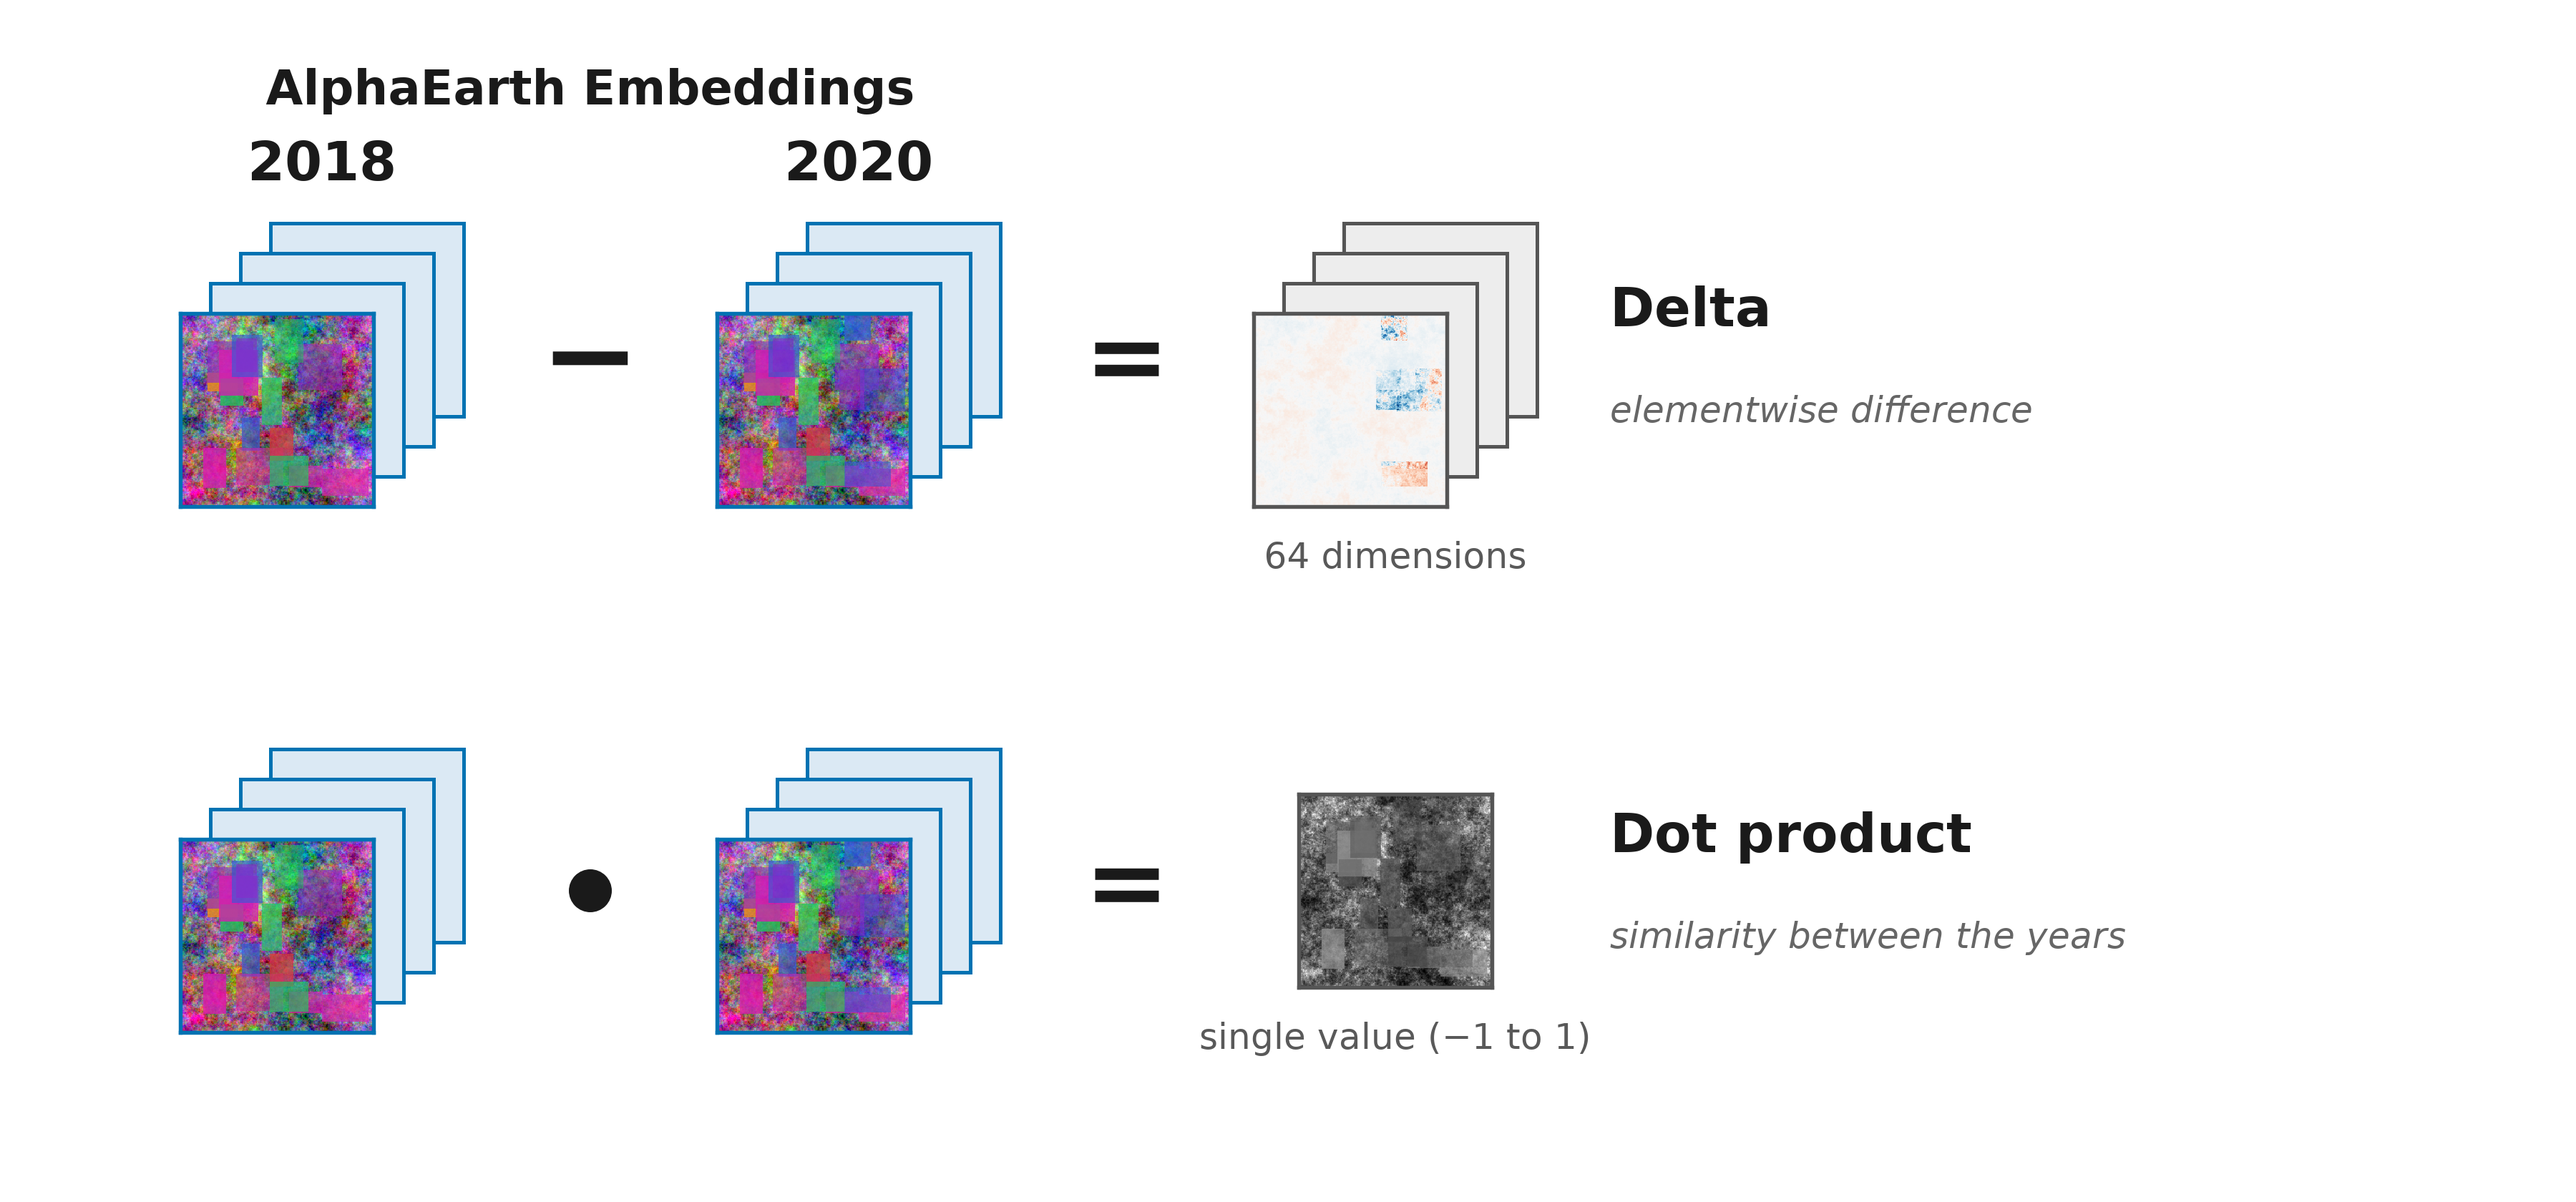
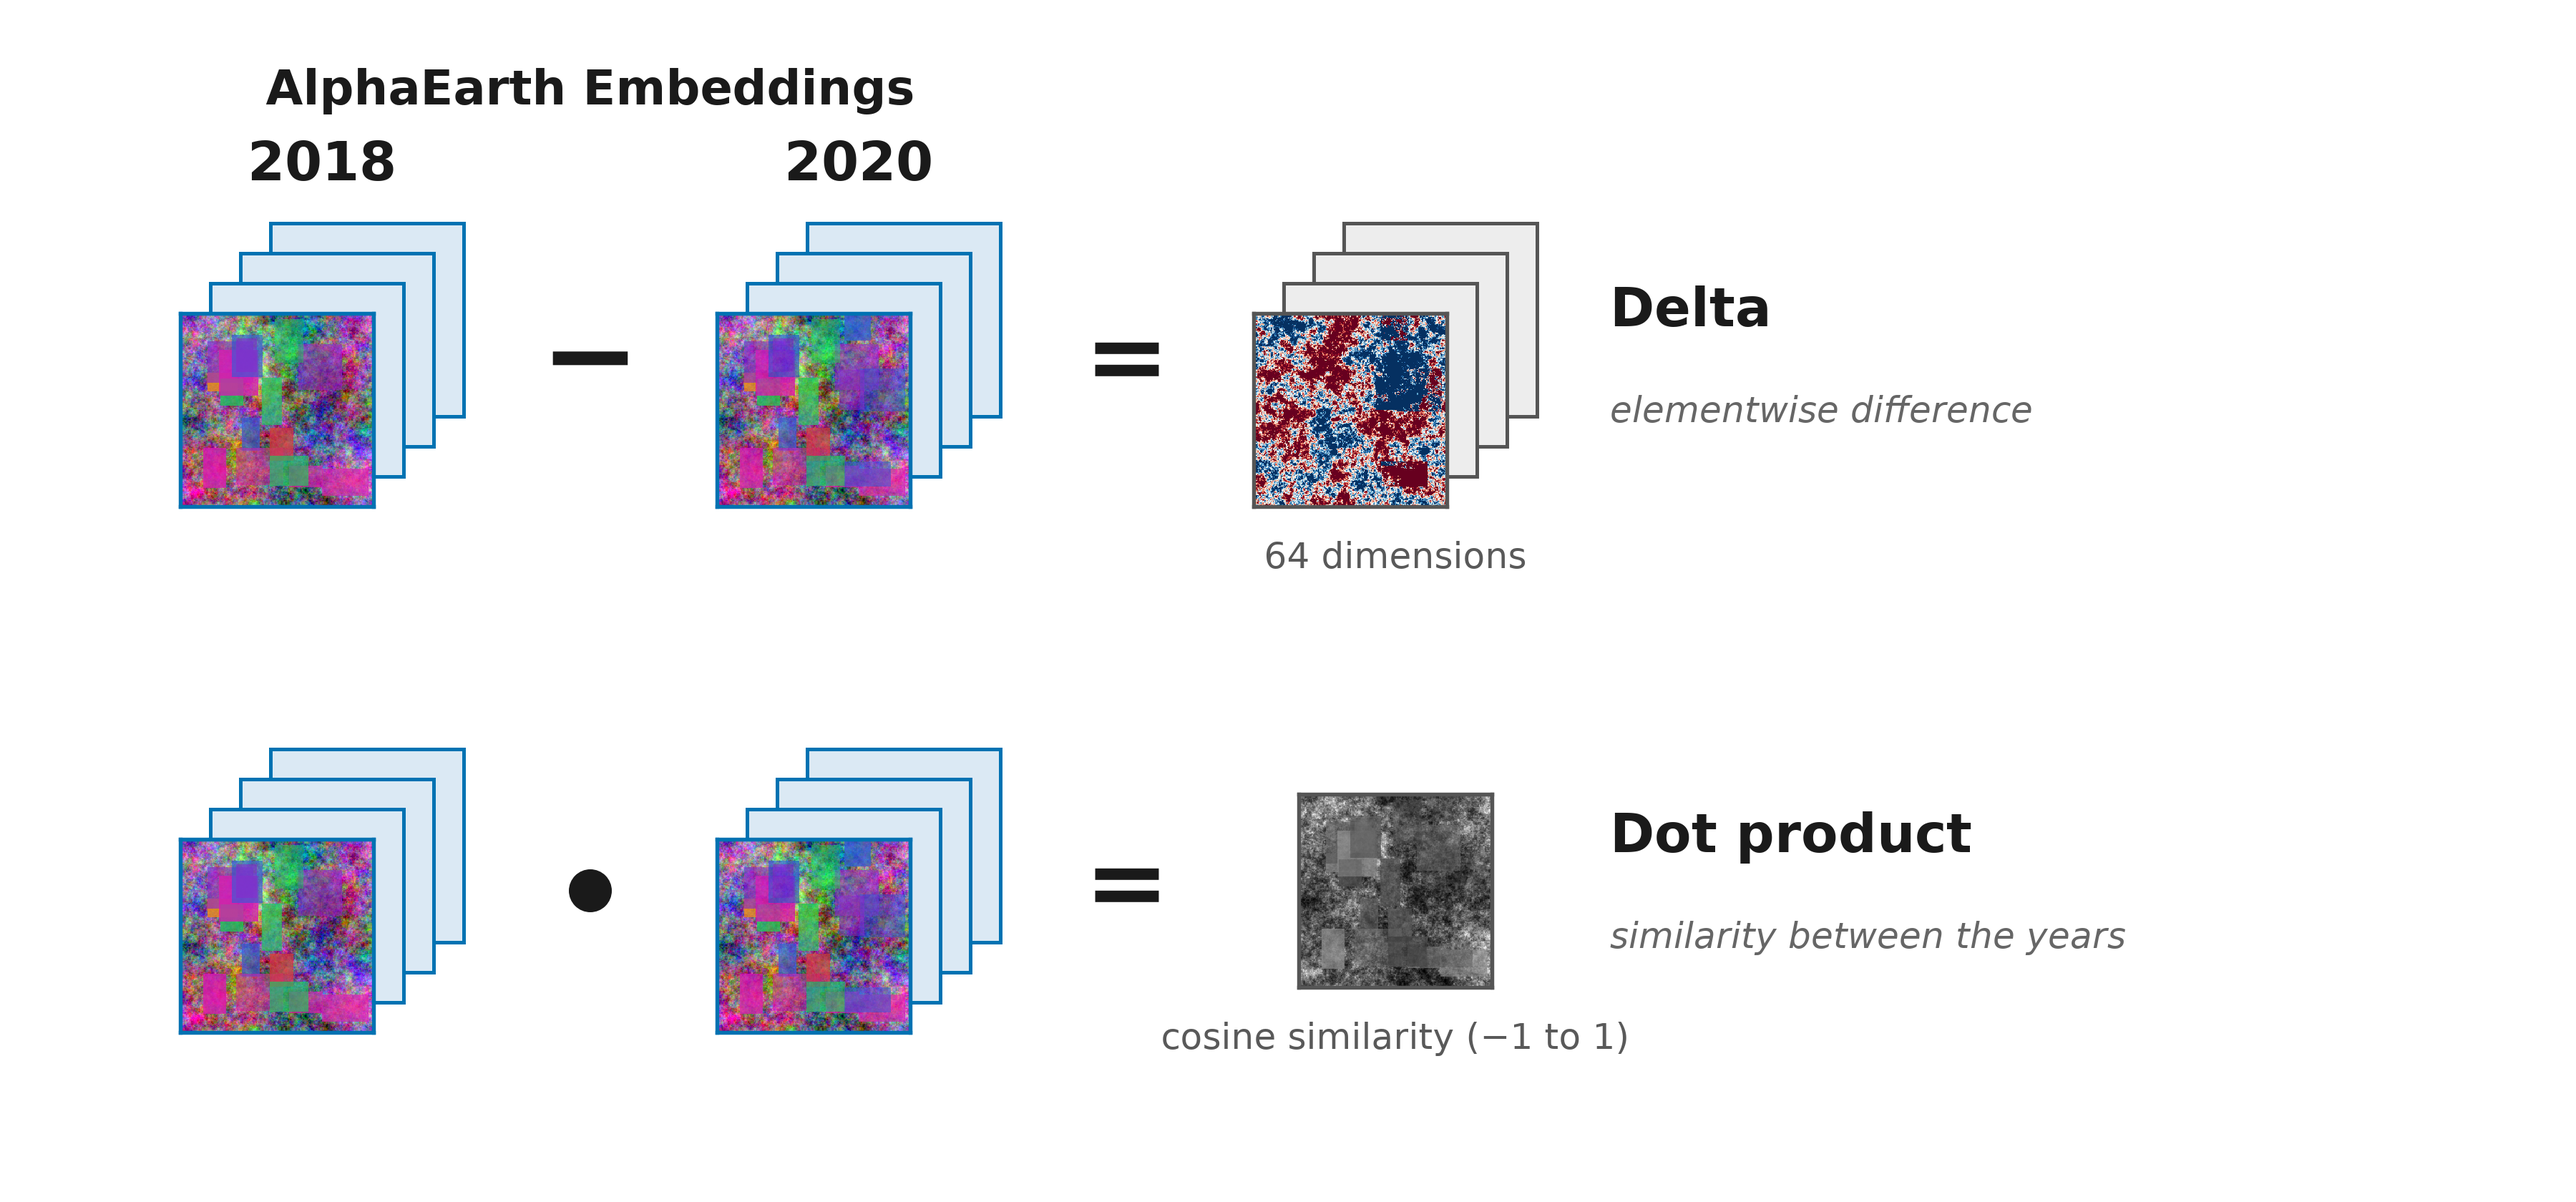
pres_15 v4: more colorful delta, restore 'cosine similarity' label
Larger structured year-to-year difference + percentile-saturated RdBu so the delta
map shows more red/blue. Restore the 'cosine similarity (-1 to 1)' tag on the dot output.

Changed region(s): [[0.4667, 0.2476, 0.56, 0.4333], [0.4667, 0.8357, 0.6222, 0.8976]]

diff --git a/presentation/scripts/pres_15_embedding_ops_version_4.py b/presentation/scripts/pres_15_embedding_ops_version_4.py
@@ -73,12 +73,12 @@ def _textures():
 
     e18 = emb()
     parcels(e18, 16)
-    e20 = np.clip(e18 + 0.05 * (np.stack([fnoise(2.4) for _ in range(3)], -1) - 0.5) * 2, 0, 1)
+    e20 = np.clip(e18 + 0.13 * (np.stack([fnoise(2.2) for _ in range(3)], -1) - 0.5) * 2, 0, 1)
     parcels(e20, 4)                                                # a few changed parcels -> visible delta
 
     d = (e20 - e18).mean(axis=2)                                    # signed per-pixel delta
     dot = (e18 * e20).sum(axis=2) / 3.0                            # per-pixel similarity, grayscale
-    m = float(np.max(np.abs(d))) or 1.0
+    m = float(np.percentile(np.abs(d), 60)) or 1.0                  # saturate so more of the map is red/blue
     delta_rgba = ScalarMappable(norm=TwoSlopeNorm(vcenter=0.0, vmin=-m, vmax=m),
                                 cmap=plt.get_cmap("RdBu")).to_rgba(d)
     dot_rgba = ScalarMappable(norm=Normalize(dot.min(), dot.max()),
@@ -148,8 +148,8 @@ def main():
     bg.add_patch(Circle((COL["op"], DOT_CY), 0.1, facecolor=DARK, edgecolor="none", zorder=6))
     _sign(bg, COL["eq"], DOT_CY, "=", 34)
     _imgsq(fig, COL["out"], DOT_CY, S_EMB, dot_rgba, OUT_EDGE)
-    bg.text(COL["out"], DOT_CY - S_EMB / 2 - 0.16, "single value (−1 to 1)", ha="center", va="top",
-            fontsize=SUB_FS, color="0.35", zorder=6)
+    bg.text(COL["out"], DOT_CY - S_EMB / 2 - 0.16, "cosine similarity (−1 to 1)", ha="center",
+            va="top", fontsize=SUB_FS, color="0.35", zorder=6)
     _oplabel(bg, "Dot product", "similarity between the years", DOT_CY)
 
     os.makedirs(OUT, exist_ok=True)
